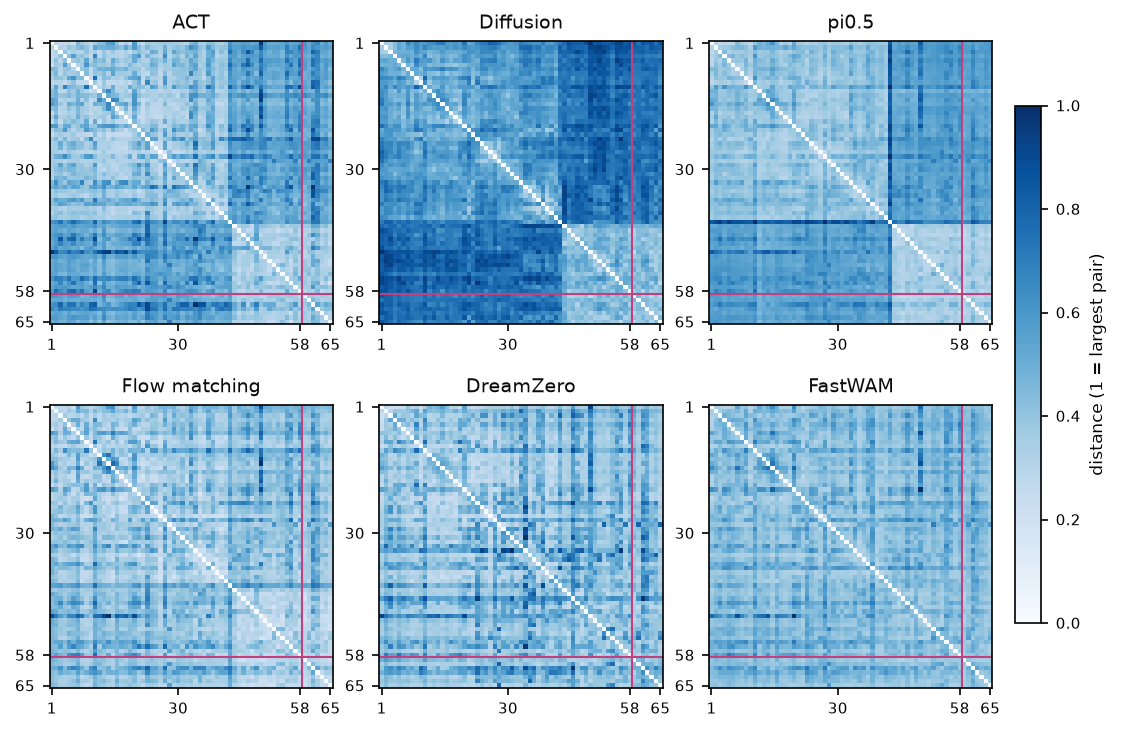
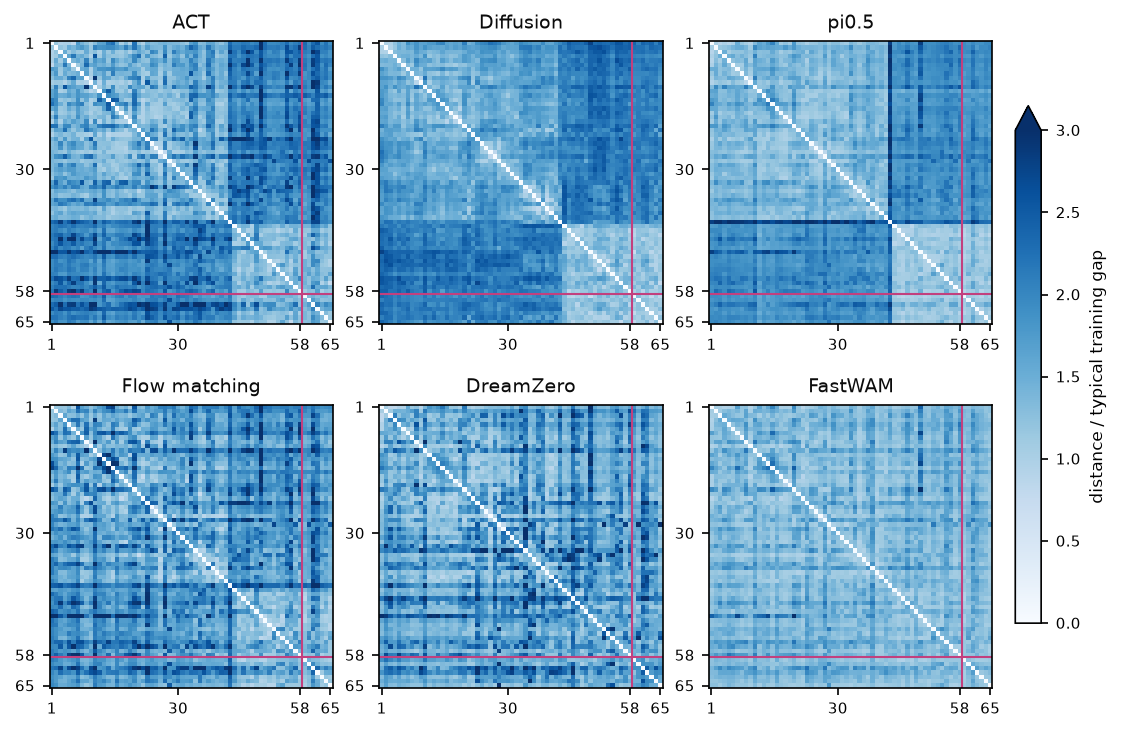
Recording distances in each model's typical-gap units, and split by camera
Raw cosine distances are not comparable between encoders (pi0.5's features sit
in a narrow cone), so each matrix is divided by the model's mean distance from a
training demonstration to its nearest training neighbour. With the overhead
camera alone every model sees the test demonstrations as familiar (0.67-1.04);
with the fingertips alone four models see them as slightly less familiar
(up to 1.17).

Claude-Session: https://claude.ai/code/session_0196vDjqm3Zo6sQgqQLb5qwQ

diff --git a/tool/report_enrich.py b/tool/report_enrich.py
@@ -58,8 +58,29 @@ def pairs(items: "list[str]") -> "list[tuple[str, Path]]":
 # -- 1. recordings ----------------------------------------------------------
 
 
-def draw_recordings(entries: "list[tuple[str, Path]]", out: Path) -> "Path | None":
-    """One normalised distance matrix per model, the test recordings boxed."""
+def in_typical_units(payload: dict) -> "tuple[np.ndarray, dict]":
+    """The raw distance matrix divided by the model's typical training gap.
+
+    Raw cosine distances are on one nominal scale (0 to 2) but not comparable
+    between models: an encoder whose features all point in nearly the same
+    direction (pi0.5's averaged image tokens) puts every pair close to 0. So
+    each matrix is expressed in units of its own typical gap -- the mean
+    distance from a training demonstration to its nearest training neighbour
+    -- and 1 means "as different as two training demonstrations usually are",
+    for every model. Returns the scaled matrix and the raw-scale summary.
+    """
+    from actoris_harena.analysis import recordings as rec
+
+    raw = np.array(payload["raw"])
+    held = [payload["episodes"].index(e) for e in payload["held"]]
+    summary = rec.split_summary(raw, held)
+    return raw / summary["nearest_train"], summary
+
+
+def draw_recordings(
+    entries: "list[tuple[str, Path]]", out: Path, vmax: float = 3.0
+) -> "Path | None":
+    """One distance matrix per model, in typical-gap units, test recordings marked."""
     if not entries:
         return None
     cols = min(3, len(entries))
@@ -70,9 +91,9 @@ def draw_recordings(entries: "list[tuple[str, Path]]", out: Path) -> "Path | Non
     image = None
     for axis, (key, path) in zip(axes.flat, entries):
         payload = json.loads(path.read_text())
-        matrix = np.array(payload["normalised"])
+        matrix, _ = in_typical_units(payload)
         held = [payload["episodes"].index(e) for e in payload["held"]]
-        image = axis.imshow(matrix, cmap="Blues", vmin=0.0, vmax=1.0)
+        image = axis.imshow(matrix, cmap="Blues", vmin=0.0, vmax=vmax)
         if held:
             edge = min(held) - 0.5
             for line in (axis.axhline, axis.axvline):
@@ -85,8 +106,10 @@ def draw_recordings(entries: "list[tuple[str, Path]]", out: Path) -> "Path | Non
     for axis in list(axes.flat)[len(entries) :]:
         axis.axis("off")
     figure.tight_layout()
-    bar = figure.colorbar(image, ax=axes.ravel().tolist(), shrink=0.8, pad=0.02)
-    bar.set_label("distance (1 = largest pair)", fontsize=8)
+    bar = figure.colorbar(
+        image, ax=axes.ravel().tolist(), shrink=0.8, pad=0.02, extend="max"
+    )
+    bar.set_label("distance / typical training gap", fontsize=8)
     bar.ax.tick_params(labelsize=7)
     figure.savefig(out, dpi=150, bbox_inches="tight")
     plt.close(figure)
@@ -95,23 +118,30 @@ def draw_recordings(entries: "list[tuple[str, Path]]", out: Path) -> "Path | Non
 
 
 def write_recordings_table(
-    entries: "list[tuple[str, Path]]", out: Path
+    groups: "dict[str, list[tuple[str, Path]]]", out: Path
 ) -> "Path | None":
-    """Nearest-training-recording distance, training vs test, per model."""
-    if not entries:
+    """Test/training nearest-neighbour ratio per model, per camera group."""
+    names = [g for g in ("all", "overhead", "fingertips") if groups.get(g)]
+    if not names:
         return None
+    by_model: "dict[str, dict[str, float]]" = {}
+    for group in names:
+        for key, path in groups[group]:
+            _, summary = in_typical_units(json.loads(path.read_text()))
+            ratio = summary["nearest_held"] / summary["nearest_train"]
+            by_model.setdefault(key, {})[group] = ratio
+    header = {"all": "all cameras", "overhead": "overhead", "fingertips": "fingertips"}
     lines = [
-        r"\begin{tabular}{lrrr}",
+        r"\begin{tabular}{l" + "r" * len(names) + "}",
         r"\toprule",
-        r"model & training & test & test / training \\",
+        "model & " + " & ".join(header[g] for g in names) + r" \\",
         r"\midrule",
     ]
-    for key, path in entries:
-        s = json.loads(path.read_text())["summary"]
-        train, test = s["nearest_train"], s["nearest_held"]
-        lines.append(
-            f"{LABELS.get(key, key)} & {train:.2f} & {test:.2f} & {test / train:.2f} \\\\"
-        )
+    for key in [k for k, _, _ in ALL_MODELS if k in by_model]:
+        cells = [
+            f"{by_model[key][g]:.2f}" if g in by_model[key] else "--" for g in names
+        ]
+        lines.append(f"{LABELS.get(key, key)} & " + " & ".join(cells) + r" \\")
     lines += [r"\bottomrule", r"\end{tabular}"]
     out.write_text("\n".join(lines) + "\n")
     print(f"  recordings table -> {out}")
@@ -403,7 +433,14 @@ def main() -> int:
     out.mkdir(parents=True, exist_ok=True)
     recordings = pairs(args.recordings)
     draw_recordings(recordings, out / "recordings.png")
-    write_recordings_table(recordings, out / "recordings_table.tex")
+    groups = {"all": recordings}
+    for group in ("overhead", "fingertips"):
+        groups[group] = [
+            (key, path.with_name(path.stem + f"_{group}" + path.suffix))
+            for key, path in recordings
+            if path.with_name(path.stem + f"_{group}" + path.suffix).is_file()
+        ]
+    write_recordings_table(groups, out / "recordings_table.tex")
     if args.dataset:
         draw_sensor_shift(Path(args.dataset).expanduser(), out / "sensor_shift.png")
     curves = pairs(args.curves)

diff --git a/documents/paper/training_analysis/sections/03_experiments.tex b/documents/paper/training_analysis/sections/03_experiments.tex
@@ -104,8 +104,10 @@ nearest neighbour?
   \includegraphics[width=0.85\textwidth]{recordings.png}
   \caption{How different every pair of demonstrations looks to each model's
   vision encoder: the mean feature distance after matching their frames in
-  order, scaled so that 1 is the most different pair. Demonstrations are in
-  recording order; the lines mark the seven test demonstrations (58--65).}
+  order, \gr{in units of that model's typical training gap (the average distance
+  from a training demonstration to its nearest training neighbour), so that 1
+  means equally different for every model.} Demonstrations are in recording
+  order; the lines mark the seven test demonstrations (58--65).}
   \label{fig:recordings}
 \end{figure}
 
@@ -113,9 +115,14 @@ nearest neighbour?
 
 \begin{table}[t]
   \centering
-  \caption{Distance from each demonstration to its nearest training
-  demonstration (itself excluded), averaged over the 58 training and the 7 test
-  demonstrations, on the scale of Figure~\ref{fig:recordings}.}
+  \caption{\gr{How far the test demonstrations are from the training ones,
+  relative to how far training demonstrations are from each other: the average
+  distance from a test demonstration to its nearest training demonstration,
+  divided by the average distance from a training demonstration to its nearest
+  other training demonstration. 1 means the test demonstrations look as
+  familiar as the training ones. Computed with all of a model's cameras, the
+  overhead camera alone, and the fingertips alone (pi0.5 reads two fingertips,
+  the others four).}}
   \label{tab:recordings}
   \small
   \input{tables/recordings_table}
@@ -127,7 +134,14 @@ training demonstration as a training demonstration is from its own nearest
 neighbour (Table~\ref{tab:recordings}). Each test demonstration has training
 demonstrations that look about as similar as training demonstrations look to
 each other, so the large gaps of Section~\ref{sec:compare} are not caused by
-the test demonstrations looking unfamiliar.
+the test demonstrations looking unfamiliar. \gr{\textbf{Split by camera, the
+fingertips differ slightly more than the overhead view.} With the overhead
+camera alone the ratio is 0.67 to 1.04, at or below one for every model; with
+the fingertips alone it is 0.92 to 1.17, above one for ACT, flow matching,
+DreamZero and FastWAM. The test demonstrations' fingertip images are a little
+less like the training ones than their overhead images are, but by at most 17\,\%,
+not enough to explain test errors up to seven times the training errors
+(Table~\ref{tab:actions}).}
 
 \gr{\textbf{The session does contain one visual change, at demonstration 43.} In
 Figure~\ref{fig:recordings}, ACT, Diffusion and pi0.5 see the session as two

diff --git a/documents/paper/training_analysis/sections/02_methods.tex b/documents/paper/training_analysis/sections/02_methods.tex
@@ -229,8 +229,13 @@ models, their autoencoder's latent averaged onto a coarse grid
 so that no camera counts more than another because its encoder outputs larger
 numbers, and the cameras' vectors are placed end to end to give one vector per
 frame. Two frames are compared by cosine distance, one minus the cosine of the
-angle between their vectors: 0 for identical directions, and the same scale
-(0 to 2) for every model, so the models can be compared directly. Two
+angle between their vectors: 0 for identical directions. \gr{Raw cosine
+distances are not comparable between models, because an encoder whose features
+all point in nearly the same direction (pi0.5's averaged image tokens) puts every
+pair close to zero. So each model's distances are expressed in units of its own
+typical training gap, the average distance from a training demonstration to its
+nearest training neighbour: 1 then means ``as different as two training
+demonstrations usually are'' for every model.} Two
 demonstrations show the same fold at different paces, so if $B$ has $M$ frames
 and $A$ has $N \ge M$, we match every frame of $B$ to a different frame of $A$,
 keeping the order:

diff --git a/documents/paper/training_analysis/tables/recordings_table.tex b/documents/paper/training_analysis/tables/recordings_table.tex
@@ -1,12 +1,12 @@
 \begin{tabular}{lrrr}
 \toprule
-model & training & test & test / training \\
+model & all cameras & overhead & fingertips \\
 \midrule
-ACT & 0.26 & 0.28 & 1.07 \\
-Diffusion & 0.36 & 0.32 & 0.90 \\
-pi0.5 & 0.30 & 0.29 & 0.96 \\
-Flow matching & 0.23 & 0.24 & 1.05 \\
-DreamZero & 0.26 & 0.30 & 1.16 \\
-FastWAM & 0.32 & 0.35 & 1.07 \\
+ACT & 1.07 & 0.96 & 1.10 \\
+Diffusion & 0.90 & 0.67 & 0.93 \\
+pi0.5 & 0.96 & 1.02 & 0.92 \\
+Flow matching & 1.05 & 0.88 & 1.12 \\
+DreamZero & 1.16 & 1.00 & 1.17 \\
+FastWAM & 1.07 & 1.04 & 1.09 \\
 \bottomrule
 \end{tabular}
